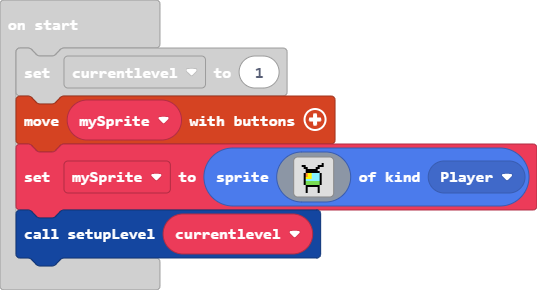
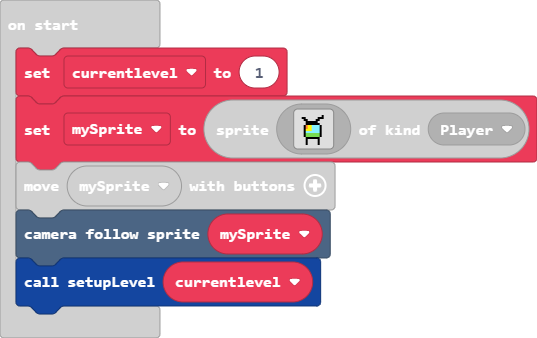
Update main.blocks, main.ts, tilemap.g.jres, tilemap.g.ts

diff --git a/tilemap.g.ts b/tilemap.g.ts
@@ -10,6 +10,8 @@ namespace myTiles {
     export const tile2 = image.ofBuffer(hex``);
     //% fixedInstance jres blockIdentity=images._tile
     export const tile4 = image.ofBuffer(hex``);
+    //% fixedInstance jres blockIdentity=images._tile
+    export const tile5 = image.ofBuffer(hex``);
 
     helpers._registerFactory("tilemap", function(name: string) {
         switch(helpers.stringTrim(name)) {
@@ -33,7 +35,7 @@ namespace myTiles {
 . . . . . . . . . . . . . . . . 
 `, [], -Infinity);
             case "level2":
-            case "level2":return tiles.createTilemap(hex`1000100004040404020202020202020202020202040404040202020202020202020202020404040402020202020202020202020204040404020202020202020202020202020202020202020202020202020202020202020202020202020202020202020202020202020202020202020202020202020202020202020202020202020202020202020202020202020202020202020202020202020202020202020202020202020202020202020202020202020202020101010101010101010101010101010101010101010101010101010101010101010101010101010101010101010101010101010101010101010101010101010101010101010101010101010101010101`, img`
+            case "level2":return tiles.createTilemap(hex`1000100002010101010101010101010101010102010101010101010101010101010101010101010101010101010101010101010101010101010101010101010101010101010101010101010101010101010101010101010101010101010101010101010101010101010101010101010101010101010101010101010101010101010101010101010101010101010101010101010101010101010101010101010101010101010101010101010101010101010101010101010101010101010101010101010101010101010101010101010101010101010101010101010101010101010101010101010101010101010101010101010102010101010101010101010101010102`, img`
 . . . . . . . . . . . . . . . . 
 . . . . . . . . . . . . . . . . 
 . . . . . . . . . . . . . . . . 
@@ -50,7 +52,7 @@ namespace myTiles {
 . . . . . . . . . . . . . . . . 
 . . . . . . . . . . . . . . . . 
 . . . . . . . . . . . . . . . . 
-`, [myTiles.transparency16,myTiles.tile1,myTiles.tile2,myTiles.tile3,myTiles.tile4], TileScale.Sixteen);
+`, [myTiles.transparency16,myTiles.tile1,myTiles.tile5], TileScale.Sixteen);
         }
         return null;
     })
@@ -66,6 +68,8 @@ namespace myTiles {
             case "tile2":return tile2;
             case "myTile2":
             case "tile4":return tile4;
+            case "myTile3":
+            case "tile5":return tile5;
         }
         return null;
     })

diff --git a/main.ts b/main.ts
@@ -5,8 +5,8 @@ function setupLevel (level: number) {
     	
     }
 }
-let mySprite: Sprite = null
 let currentlevel = 1
+let mySprite = sprites.create(assets.image`tom tv`, SpriteKind.Player)
 controller.moveSprite(mySprite)
-mySprite = sprites.create(assets.image`tom tv`, SpriteKind.Player)
+scene.cameraFollowSprite(mySprite)
 setupLevel(currentlevel)
